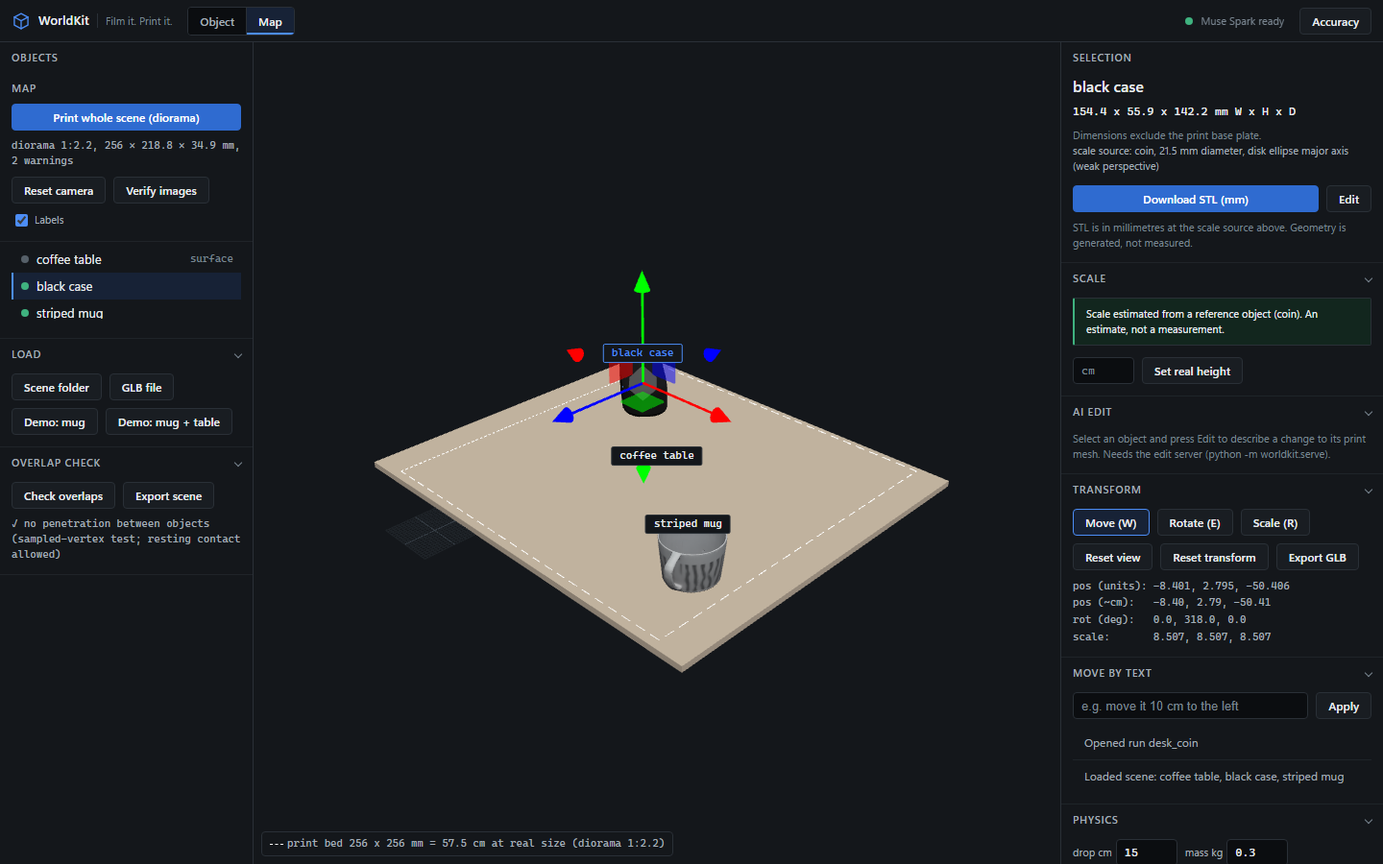
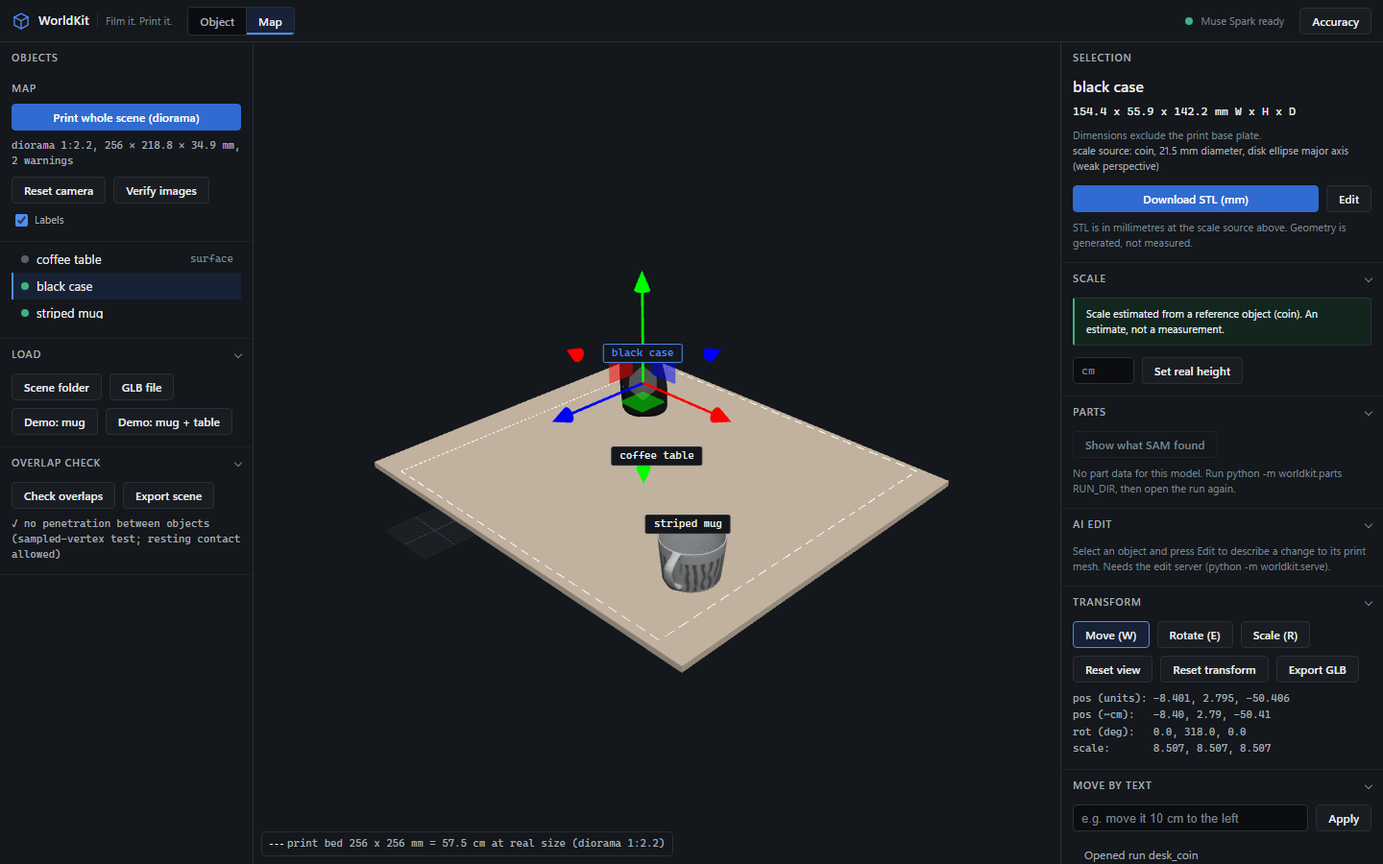
Viewer: show what SAM found overlay, Parts section, part-edit sentences in the AI Edit log
Accent-coloured overlay faces for the part, legend with the view count, per-part view bar, all from tokens. A part edit is
one plain sentence plus version and verdict, never tool-call JSON; the overlay is dropped when an edited mesh replaces the
original. New browser suite parts_browser_test.js (10 checks) and a real-mug screenshot in docs/ui/.

Changed region(s): [[0.75, 0.4667, 1.0, 0.9956], [0.9375, 0.9333, 1.0, 0.9644]]

diff --git a/viewer/index.html b/viewer/index.html
@@ -99,6 +99,15 @@
         </div>
       </details>
 
+      <details class="sec" open id="sec-parts">
+        <summary>Parts</summary>
+        <div class="sec-b">
+          <div class="row"><button id="btn-parts" type="button" aria-pressed="false" disabled>Show what SAM found</button></div>
+          <div id="part-list"></div>
+          <div id="parts-empty" class="hint">No part data for this model. Run python -m worldkit.parts RUN_DIR, then open the run again.</div>
+        </div>
+      </details>
+
       <details class="sec" open>
         <summary>AI Edit</summary>
         <div class="sec-b">
@@ -185,6 +194,7 @@
     <div id="wk-labels"></div>
     <div id="vp-tools"></div>
     <div id="vp-legend"><i></i><span id="vp-legend-text"></span></div>
+    <div id="vp-part-legend" role="status"><i></i><span id="vp-part-legend-text"></span></div>
     <div id="loading" role="status"><div class="bar"></div><span id="loading-text">Loading</span></div>
     <div id="verify-panel">
       <div class="head"><b>Verification against the real frames</b><span id="verify-sum"></span><button id="btn-verify-close">Close</button></div>
@@ -1210,7 +1220,7 @@ async function startup() {
   try {
     const cfg = await (await fetch("/api/autoload")).json();
     if (cfg.kind === "scene") { await loadSceneFromUrl(cfg.base); logEntry(`Opened run ${cfg.name}`); return; }
-    if (cfg.kind === "object") { window.__runStl = cfg.stl || null; await loadObjectFromUrls(cfg.glb, cfg.report, "model.glb"); logEntry(`Opened run ${cfg.name}`); return; }
+    if (cfg.kind === "object") { window.__runStl = cfg.stl || null; await loadObjectFromUrls(cfg.glb, cfg.report, "model.glb"); logEntry(`Opened run ${cfg.name}`); loadParts(); return; }
     if (cfg.error) logEntry(cfg.error, true);
   } catch (e) { logEntry(`Could not open the requested run: ${e}`, true); }
   loadGLBFromURL("assets/sample_mug.glb", "sample_mug.glb");
@@ -1255,6 +1265,8 @@ async function aiReloadModel() {
   const buf = await r.arrayBuffer();
   if (ai.obj) await replaceObjectGeometry(ai.obj, buf);
   else await loadGLBFromArrayBuffer(buf, `edit v${ai.state.current}`);
+  if (partsState.on) { partsState.on = false; document.getElementById("btn-parts").setAttribute("aria-pressed", "false"); }
+  clearPartOverlay(); // the overlay marks the ORIGINAL mesh
 }
 async function aiSend() {
   const input = document.getElementById("ai-input");
@@ -1272,15 +1284,18 @@ async function aiSend() {
     const tools = (r.tools || []).map((t) => `${t.name}(${JSON.stringify(t.arguments)})${t.error ? " ERROR: " + t.error : ""}`).join("; ");
     const imgUrl = (r.renders && r.renders.length) ? `/edit/render/${r.renders[0]}${ai.obj ? "?obj=" + encodeURIComponent(ai.obj) : ""}` : "";
     const img = imgUrl ? `<img class="thumb" src="${imgUrl}" alt="before and after render">` : "";
+    const sentences = (r.tools || []).map((t) => t.sentence).filter(Boolean);
     const toolNames = (r.tools || []).map((t) => `${esc(t.name)}${t.error ? " ERROR" : ""}`).join(", ") || "no tool";
-    const row = (vtag, verdict, meta) => `<div><span class="vtag">${vtag}</span>${esc(text)}</div><div class="mono">${toolNames}</div><div>${verdict}</div><div class="meta">${meta}</div>${img}`;
+    // a part edit reads as a sentence ("Thickened handle by 2 mm (SAM found 7 of 8 views)"), never as tool-call arguments
+    const what = sentences.length ? `<div>${sentences.map(esc).join(" ")}</div>` : `<div class="mono">${toolNames}</div>`;
+    const row = (vtag, verdict, meta) => `<div><span class="vtag">${vtag}</span>${esc(text)}</div>${what}<div>${verdict}</div><div class="meta">${meta}</div>${img}`;
     if (r.applied) {
       entry.className = "entry ok";
-      entry.innerHTML = row(`v${r.version}`, `applied as v${r.version}${r.retries ? " (after " + r.retries + " retry)" : ""}`, `Spark: ${esc(r.spark || (r.spark_verified === false ? "unavailable - accepted on geometry checks" : "verified"))} | ${esc(tools)} | ${r.seconds}s`);
+      entry.innerHTML = row(`v${r.version}`, `applied as v${r.version}${r.retries ? " (after " + r.retries + " retry)" : ""}`, [`Spark: ${esc(r.spark || (r.spark_verified === false ? "unavailable - accepted on geometry checks" : "verified"))}`, sentences.length ? "" : esc(tools), `${r.seconds}s`].filter(Boolean).join(" | "));
       await aiReloadModel();
     } else {
       entry.className = "entry bad";
-      entry.innerHTML = row(`no change`, `not applied, the model is unchanged: ${esc(r.reason)}`, `${esc(tools)} | ${r.seconds}s`);
+      entry.innerHTML = row(`no change`, `not applied, the model is unchanged: ${esc(r.reason)}`, [sentences.length ? "" : esc(tools), `${r.seconds}s`].filter(Boolean).join(" | "));
     }
     if (imgUrl) { entry.dataset.expandable = "1"; entry.tabIndex = 0; entry.title = "Click for the before/after render"; }
     status.textContent = "";
@@ -1402,7 +1417,7 @@ function setOutline(entry) {
   clearOutline();
   if (sceneObjects.length < 2) return;
   entry.group.traverse((m) => {
-    if (!m.isMesh || m.userData.__outline) return;
+    if (!m.isMesh || m.userData.__outline || m.userData.__partOverlay) return;
     const lines = new THREE.LineSegments(new THREE.EdgesGeometry(m.geometry, 35), new THREE.LineBasicMaterial({ color: css("--vp-select"), depthTest: true, transparent: true, opacity: 0.95 }));
     lines.userData.__outline = true;
     lines.raycast = () => {};
@@ -1641,6 +1656,102 @@ window.__accuracyOpen = openAccuracy;
   const dock = document.getElementById("dock"), tg = document.getElementById("sheet-toggle");
   tg.onclick = () => { const c = dock.classList.toggle("collapsed"); tg.setAttribute("aria-expanded", String(!c)); tg.textContent = c ? "Panels (show)" : "Panels (hide)"; };
 }
+
+
+// --- Parts: "show what SAM found" overlay (accent-coloured faces of the selected part, drawn over the model) ---------------------------
+const partsState = { data: null, on: false, overlays: [] };
+function clearPartOverlay() {
+  for (const o of partsState.overlays) { o.parent && o.parent.remove(o); o.geometry.dispose(); o.material.dispose(); }
+  partsState.overlays = [];
+  document.getElementById("vp-part-legend").style.display = "none";
+}
+function partKeys(part) {
+  const bin = atob(part.glb_keys_b64);
+  const u8 = new Uint8Array(bin.length);
+  for (let i = 0; i < bin.length; i++) u8[i] = bin.charCodeAt(i);
+  const a = new Int32Array(u8.buffer);
+  const keys = new Set();
+  for (let i = 0; i + 2 < a.length; i += 3) keys.add(a[i] + "," + a[i + 1] + "," + a[i + 2]);
+  return keys;
+}
+function buildPartOverlay() {
+  clearPartOverlay();
+  if (!partsState.on || !partsState.data) return 0;
+  let faces = 0;
+  for (const part of partsState.data.parts) {
+    const keys = partKeys(part);
+    modelGroup.traverse((m) => {
+      if (!m.isMesh || m.userData.__partOverlay || m.userData.__outline || !m.geometry.attributes.position) return;
+      const pos = m.geometry.attributes.position, idx = m.geometry.index;
+      const inSet = new Uint8Array(pos.count);
+      for (let i = 0; i < pos.count; i++) inSet[i] = keys.has(Math.round(pos.getX(i) * 1e4) + "," + Math.round(pos.getY(i) * 1e4) + "," + Math.round(pos.getZ(i) * 1e4)) ? 1 : 0;
+      const tri = idx ? idx.count / 3 : pos.count / 3;
+      const out = [];
+      for (let f = 0; f < tri; f++) {
+        const a = idx ? idx.getX(f * 3) : f * 3, b = idx ? idx.getX(f * 3 + 1) : f * 3 + 1, c = idx ? idx.getX(f * 3 + 2) : f * 3 + 2;
+        if (inSet[a] && inSet[b] && inSet[c]) out.push(pos.getX(a), pos.getY(a), pos.getZ(a), pos.getX(b), pos.getY(b), pos.getZ(b), pos.getX(c), pos.getY(c), pos.getZ(c));
+      }
+      if (!out.length) return;
+      const g = new THREE.BufferGeometry();
+      g.setAttribute("position", new THREE.Float32BufferAttribute(out, 3));
+      const mat = new THREE.MeshBasicMaterial({ color: css("--accent"), transparent: true, opacity: 0.6, depthTest: true, polygonOffset: true, polygonOffsetFactor: -2, polygonOffsetUnits: -2, side: THREE.FrontSide });
+      const ov = new THREE.Mesh(g, mat);
+      ov.userData.__partOverlay = true;
+      ov.raycast = () => {};
+      m.add(ov);
+      partsState.overlays.push(ov);
+      faces += out.length / 9;
+    });
+  }
+  const p0 = partsState.data.parts[0];
+  document.getElementById("vp-part-legend-text").textContent = `SAM part: ${p0.name}, found in ${p0.views_found} of ${p0.views_total} views. Edges are approximate.`;
+  document.getElementById("vp-part-legend").style.display = faces ? "block" : "none";
+  return faces;
+}
+function renderPartList() {
+  const box = document.getElementById("part-list");
+  box.textContent = "";
+  const parts = (partsState.data && partsState.data.parts) || [];
+  document.getElementById("parts-empty").style.display = parts.length ? "none" : "block";
+  document.getElementById("btn-parts").disabled = !parts.length;
+  for (const p of parts) {
+    const row = document.createElement("div");
+    row.className = "part-row";
+    const nm = document.createElement("span");
+    nm.className = "pn";
+    nm.textContent = p.name;
+    const ct = document.createElement("span");
+    ct.className = "pc";
+    ct.textContent = `${p.views_found} of ${p.views_total} views`;
+    const bar = document.createElement("span");
+    bar.className = "pbar";
+    bar.setAttribute("aria-hidden", "true");
+    for (let i = 0; i < p.views_total; i++) { const b = document.createElement("i"); if (i < p.views_found) b.className = "on"; bar.appendChild(b); }
+    const note = document.createElement("span");
+    note.className = "pnote";
+    note.textContent = `${p.vertex_count} vertices${p.stl_points_b64 ? ", usable by AI Edit" : ", overlay only (no print-mesh selection)"}`;
+    row.append(nm, ct, bar, note);
+    box.appendChild(row);
+  }
+}
+async function loadParts() {
+  partsState.data = null; partsState.on = false;
+  clearPartOverlay();
+  document.getElementById("btn-parts").setAttribute("aria-pressed", "false");
+  try {
+    const r = await fetch("/open/parts/parts.json");
+    if (r.ok) partsState.data = await r.json();
+  } catch (e) { /* no parts file: the section shows its empty state */ }
+  renderPartList();
+}
+document.getElementById("btn-parts").onclick = () => {
+  partsState.on = !partsState.on;
+  document.getElementById("btn-parts").setAttribute("aria-pressed", String(partsState.on));
+  const n = buildPartOverlay();
+  if (partsState.on && !n) { partsState.on = false; document.getElementById("btn-parts").setAttribute("aria-pressed", "false"); document.getElementById("parts-empty").textContent = "The part could not be matched to the displayed mesh (it was edited or replaced)."; document.getElementById("parts-empty").style.display = "block"; }
+};
+window.__partsUi = () => ({ overlayFaces: partsState.overlays.reduce((n, o) => n + o.geometry.attributes.position.count / 3, 0), on: partsState.on, rows: document.querySelectorAll("#part-list .part-row").length,
+  legend: document.getElementById("vp-part-legend").style.display, legendText: document.getElementById("vp-part-legend-text").textContent, enabled: !document.getElementById("btn-parts").disabled });
 
 // --- Render loop -----------------------------------------------------------
 function onResize() {

diff --git a/viewer/tests/parts_browser_test.js b/viewer/tests/parts_browser_test.js
@@ -1,0 +1,62 @@
+// Real-browser test of the "show what SAM found" overlay and of part edits in the AI Edit log, against worldkit.serve with a scripted
+// Wonder/Spark (serve_fake.py has a 'handle' part, 7 of 8 views): the overlay marks faces, the legend states the view count, a part edit reads as
+// a plain sentence (never tool-call JSON), and the overlay is dropped once the model is replaced by an edited version.
+//   node viewer/tests/parts_browser_test.js        (starts its own server on port 5083; needs pipeline\.venv)
+const { chromium } = require("playwright");
+const { spawn } = require("child_process");
+const path = require("path");
+
+const ROOT = path.resolve(__dirname, "..", "..");
+const PY = path.join(ROOT, "pipeline", ".venv", "Scripts", "python.exe");
+const PORT = 5083;
+const results = [];
+const check = (name, cond, detail) => { results.push({ name, pass: !!cond }); console.log((cond ? "PASS" : "FAIL") + " - " + name + (detail ? " :: " + detail : "")); };
+const sleep = (ms) => new Promise((r) => setTimeout(r, ms));
+
+(async () => {
+  const srv = spawn(PY, [path.join(__dirname, "serve_fake.py"), String(PORT)], { cwd: ROOT, stdio: process.env.DEBUG_SERVERS ? "inherit" : "ignore" });
+  let browser;
+  try {
+    for (let i = 0; i < 80; i++) { try { if ((await fetch(`http://127.0.0.1:${PORT}/api/health`)).ok) break; } catch (e) { /* starting */ } await sleep(500); }
+    browser = await chromium.launch();
+    const page = await browser.newPage({ viewport: { width: 1280, height: 800 } });
+    const errors = [];
+    page.on("pageerror", (e) => errors.push(String(e)));
+    page.on("console", (m) => { if (m.type() === "error") errors.push(m.text()); });
+    await page.goto(`http://127.0.0.1:${PORT}/`, { waitUntil: "domcontentloaded" });
+    await page.waitForFunction(() => window.__sceneReady === true && window.__partsUi && window.__partsUi().enabled, { timeout: 40000 });
+    let ui = await page.evaluate(() => window.__partsUi());
+    check("the Parts section lists the part with its view count", ui.rows === 1 && (await page.locator("#part-list").innerText()).includes("7 of 8 views"));
+    check("the overlay is off until asked", !ui.on && ui.overlayFaces === 0 && ui.legend === "none");
+    await page.click("#btn-parts");
+    await sleep(300);
+    ui = await page.evaluate(() => window.__partsUi());
+    check("Show what SAM found draws overlay faces on the model", ui.on && ui.overlayFaces > 10, `faces=${ui.overlayFaces}`);
+    check("the legend says how many views found the part", ui.legend === "block" && ui.legendText.includes("handle") && ui.legendText.includes("7 of 8 views"), ui.legendText);
+    await page.click("#btn-parts");
+    await sleep(200);
+    check("toggling off removes the overlay", (await page.evaluate(() => window.__partsUi())).overlayFaces === 0);
+    await page.click("#btn-parts");
+    await sleep(200);
+
+    await page.fill("#ai-input", "make the handle 2 mm thicker");
+    await page.click("#ai-send");
+    await page.waitForFunction(() => document.querySelector("#ai-log .entry.ok"), { timeout: 60000 });
+    const row = await page.locator("#ai-log .entry.ok").first().innerText();
+    check("the part edit reads as a plain sentence", row.includes("Thickened handle by 2 mm (SAM found 7 of 8 views)"), row.replace(/\n/g, " | "));
+    check("no raw tool-call JSON in the row", !/[{}]|by_mm|thicken_part|"part"/.test(row), row.replace(/\n/g, " | "));
+    check("the row still shows the version and the verdict", row.includes("v1") && row.includes("applied as v1"));
+    await page.waitForFunction(() => (window.__lastLoadLabel || "") === "edit v1", { timeout: 15000 });
+    ui = await page.evaluate(() => window.__partsUi());
+    check("the overlay is dropped when the edited mesh replaces the original", !ui.on && ui.overlayFaces === 0 && ui.legend === "none");
+    check("no page or console errors", errors.length === 0, errors.slice(0, 3).join(" | "));
+  } catch (e) {
+    check("test ran to the end", false, String(e).slice(0, 300));
+  } finally {
+    if (browser) await browser.close();
+    srv.kill();
+  }
+  const failed = results.filter((r) => !r.pass).length;
+  console.log(`\n${results.length - failed}/${results.length} passed`);
+  process.exit(failed ? 1 : 0);
+})();

diff --git a/viewer/assets/app.css b/viewer/assets/app.css
@@ -192,3 +192,16 @@ td.e-na { color: var(--text-muted); }
   #vp-legend { bottom: var(--space-2); }
 }
 @media (max-width: 900px) { #viewport { position: absolute; inset: 0 0 46vh 0; } #dock.collapsed ~ #viewport { bottom: 36px; } }
+
+/* ---------- parts overlay ---------- */
+#btn-parts[aria-pressed="true"] { background: var(--bg-selected); border-color: var(--accent); }
+#part-list { margin-top: var(--space-2); }
+.part-row { display: grid; grid-template-columns: 1fr auto; gap: var(--space-1) var(--space-3); align-items: center; padding: var(--space-2) 0; border-top: var(--border-w) solid var(--border-subtle); font-size: var(--fs-sm); }
+.part-row .pn { font-weight: var(--fw-medium); }
+.part-row .pc { font-family: var(--font-mono); font-variant-numeric: tabular-nums; color: var(--text-secondary); font-size: var(--fs-xs); }
+.part-row .pbar { grid-column: 1 / -1; display: flex; gap: 2px; }
+.part-row .pbar i { flex: 1; height: 6px; border: var(--border-w) solid var(--border-strong); border-radius: var(--radius-1); }
+.part-row .pbar i.on { background: var(--accent); border-color: var(--accent); }
+.part-row .pnote { grid-column: 1 / -1; font-size: var(--fs-xs); color: var(--text-muted); }
+#vp-part-legend { position: absolute; right: var(--space-2); bottom: var(--space-2); display: none; z-index: 5; max-width: 60%; font-size: var(--fs-xs); font-family: var(--font-mono); color: var(--text-secondary); background: var(--bg-surface); border: var(--border-w) solid var(--border-default); border-radius: var(--radius-2); padding: var(--space-1) var(--space-2); }
+#vp-part-legend i { display: inline-block; width: 10px; height: 10px; background: var(--accent); opacity: 0.6; border-radius: var(--radius-1); margin-right: var(--space-2); vertical-align: -1px; }

diff --git a/viewer/tests/ui_screens.js b/viewer/tests/ui_screens.js
@@ -40,6 +40,21 @@ async function waitUp(port, url = "/api/health") { for (let i = 0; i < 80; i++) 
       await ready(); await sleep(900);
       await page.screenshot({ path: path.join(OUT, `1_object_${tag}.png`) });
 
+      // 1b. "show what SAM found" on the real mug (needs RUN_DIR/parts/parts.json from python -m worldkit.parts)
+      if (objRun && fs.existsSync(path.join(objRun, "parts", "parts.json"))) {
+        await page.waitForFunction(() => window.__partsUi && window.__partsUi().enabled, { timeout: 10000 });
+        await page.click("#btn-parts");
+        const box = await page.locator("canvas").boundingBox();  // orbit so the handle faces the camera
+        for (const dx of [250, 400]) {
+          await page.mouse.move(box.x + 36, box.y + 256); await page.mouse.down();
+          await page.mouse.move(box.x + 36 + dx * Math.min(1, box.width / 840), box.y + 256, { steps: 12 }); await page.mouse.up();
+        }
+        await sleep(500);
+        await page.screenshot({ path: path.join(OUT, `5_parts_overlay_${tag}.png`) });
+        await page.click("#btn-parts");
+        await page.click("#btn-reset");
+      }
+
       // 2. scene view (real desk scene through worldkit.serve when available, else the demo scene)
       if (sceneRun) await page.goto("http://127.0.0.1:5093/", { waitUntil: "domcontentloaded" }); else await page.click("#btn-demo-scene");
       await ready(); await sleep(1200);

diff --git a/viewer/tests/serve_fake.py b/viewer/tests/serve_fake.py
@@ -27,7 +27,7 @@ class Wonder:
 
     def create(self, **kw):
         msgs = kw["messages"]
-        text = msgs[1]["content"].lower()
+        text = msgs[1]["content"].lower().split("measured model facts")[0]  # the instruction only (the facts JSON also mentions "handle")
         last_is_tool = msgs[-1]["role"] == "tool"
         calls = None
         if not last_is_tool:
@@ -35,10 +35,34 @@ class Wonder:
                 calls = [call("scale_to", {"height_cm": 12})]
             elif "text" in text:
                 calls = [call("emboss_text", {"text": "WORLDKIT", "face": "base"})]
+            elif "handle" in text:
+                calls = [call("thicken_part", {"part": "handle", "by_mm": 2})]
             elif "reject" in text:
                 calls = [call("scale_to", {"factor": 1.1})]
         msg = NS(content=None if calls else ("Done." if last_is_tool else "No tool can do that."), tool_calls=calls)
         return NS(choices=[NS(message=msg, finish_reason="tool_calls" if calls else "stop")], usage={"prompt_tokens": 1, "completion_tokens": 1, "total_tokens": 2})
+
+
+def write_parts(d, mug):
+    """A 'handle' part for the synthetic mug (7 of 8 views), with the same quantised GLB positions the viewer matches on."""
+    import base64
+
+    import numpy as np
+    from worldkit import edit_tools as et
+
+    info = et.handle_info(mug)
+    ctr = np.asarray(info["bar_center_point_mm"])
+    sel = np.linalg.norm(mug.vertices - ctr, axis=1) < max(info["bar_thickness_along_normal_mm"], 6.0)
+    # the viewer GLB is serve.stl_to_glb(make_mug()) (unscaled mug): same linear map, then keys = round(x * 1e4)
+    m = make_mug()
+    v = np.stack([m.vertices[:, 0], m.vertices[:, 2], -m.vertices[:, 1]], axis=1)
+    v -= (v.min(0) + v.max(0)) / 2
+    v *= 2.0 / float((m.bounds[1] - m.bounds[0]).max())
+    keys = np.round(v[sel].astype(np.float32).astype(np.float64) * 1e4).astype(np.int32)
+    b64 = lambda a: base64.b64encode(np.ascontiguousarray(a).tobytes()).decode()
+    (d / "parts").mkdir(exist_ok=True)
+    (d / "parts" / "parts.json").write_text(json.dumps({"object": "mug", "parts": [{"id": "handle", "name": "handle", "views_total": 8, "views_found": 7, "vertex_count": int(sel.sum()),
+                                                                                    "glb_keys_b64": b64(keys), "stl_points_b64": b64(mug.vertices[sel].astype(np.float32))}]}))
 
 
 def spark(images, prompt):
@@ -53,4 +77,5 @@ if __name__ == "__main__":
     mug.export(d / "model_print.stl")
     (d / "report.json").write_text(json.dumps({"print_prep": {"height_source": "default_fallback", "is_estimate": True}}))
     (d / "model.glb").write_bytes(serve.stl_to_glb(make_mug()))
+    write_parts(d, mug)
     uvicorn.run(serve.create_app(d, client=Wonder(), ask_spark=spark), host="127.0.0.1", port=int(sys.argv[1]), log_level="warning")

diff --git a/CLAUDE.md b/CLAUDE.md
@@ -42,7 +42,7 @@ Working and verified on the mug video: video -> frames -> Muse Spark -> SAM 3.1 
 
 **Coin-grounded scale (`scale_cal.calibrate_grounded`, default whenever a coin is given; `--no-aspect-fit` turns it off):** the coin ellipse fixes the camera elevation (the object's own silhouette pose gave 24 deg vs the coin's 33 deg and biased the scale), then height aspect and taper of the generated mesh are fitted to SAM silhouettes (IoU only, never ground truth) and applied to the GLB. Mug, coin-only, vs ruler (`docs/accuracy.md`, `python scripts/accuracy_table.py`): height 71.3 vs 70 mm (+1.9%), rim 88.1 vs 85 (+3.7%), base 63.8 vs 65 (-1.9%); before: height +10.7%. Silhouette IoU is flat in height (7.05-7.29 cm indistinguishable), so the real uncertainty is about +-2%, and this is one mug only. `pipeline/samples/ground_truth.json` is evaluation data, never an input. The taper stage was added after seeing the base-diameter error (its fit itself uses no ground truth), so the 3-of-3 result is partly tuned by hindsight and needs a second object to confirm. Map mode placement does not use the grounded reshape yet (scene mug showed 7.35 cm).
 
-**Viewer UI (2026-11-02, spec in `docs/design-spec.md`, tokens in `viewer/assets/tokens.css`, styles `viewer/assets/app.css`):** the floating panels became a shell: top bar (wordmark, Object | Map, status, Accuracy), objects list, viewport, inspector; narrow screens get a bottom sheet. Only tokens are used for colour and size (blue accent, mono numbers, no emoji; log prefixes are now "OK:" / "FAILED:"). The canvas now fills its grid cell, not the window (tests use canvas-relative positions). Object view shows mm dimensions, scale source and "Download STL (mm)" (autoload now returns `stl`). Accuracy view renders `viewer/assets/demo/accuracy.md` (copy of `docs/accuracy.md`; refresh it when you regenerate the table). `node viewer/tests/ui_screens.js` writes `docs/ui/*.png` at 1440 and 390 px. Figma was not available; the light theme is untested.
+**Viewer UI (2026-11-02, spec in `docs/design-spec.md`, tokens in `viewer/assets/tokens.css`, styles `viewer/assets/app.css`):** the floating panels became a shell: top bar (wordmark, Object | Map, status, Accuracy), objects list, viewport, inspector; narrow screens get a bottom sheet. Only tokens are used for colour and size (blue accent, mono numbers, no emoji; log prefixes are now "OK:" / "FAILED:"). The canvas now fills its grid cell, not the window (tests use canvas-relative positions). Object view shows mm dimensions, scale source and "Download STL (mm)" (autoload now returns `stl`). Accuracy view renders `viewer/assets/demo/accuracy.md` (copy of `docs/accuracy.md`; refresh it when you regenerate the table). `node viewer/tests/ui_screens.js` writes `docs/ui/*.png` at 1440 and 390 px. Figma was not available; the light theme is untested. **Parts (2026-11-02):** `python -m worldkit.parts RUN_DIR` asks SAM 3.1 for a part (default mug handle) in each fitted frame and votes it onto the mesh vertices (mug run: 11 of 12 views, 272 vertices, GLB-to-STL alignment 0.03 mm); `parts/parts.json` feeds the viewer's "Show what SAM found" overlay and the AI Edit tool `thicken_part` (surface moves out by by_mm/2, fading out 2-4.5 mm from the part; log row is a sentence with the view count). The vote covers the camera-facing surface of the handle, not the whole ring.
 
 Measured facts worth knowing (details in `docs/TECHNICAL_NOTES.md` and `pipeline/runs/fidelity_round1/`):
 - SAM 3D mug geometry is good (watertight, loop handle, level circular rim: planarity 0.9% of radius, 0.26 deg vs base); TRELLIS is lumpier with an uneven rim. All geometry is generated, not measured.

diff --git a/docs/design-spec.md b/docs/design-spec.md
@@ -27,7 +27,7 @@ Top bar (44 px): logo mark (cube outline, SVG, 1.6 px stroke), wordmark "WorldKi
 
 1. **Object view.** Viewport centre. Left: object list with a status marker. Right "Selection": name (16 px), `W x H x D mm` in mono, "Dimensions exclude the print base plate", scale source line, primary button "Download STL (mm)", note that geometry is generated, not measured. "Scale" shows the calibration banner (amber = placeholder, green = estimated from a reference).
 2. **Scene (Map) view.** Left top: "Print whole scene (diorama)" primary button, diorama ratio, size and warning count, Reset camera, Verify images, Labels. List markers: green = printable STL, amber = no STL, grey = support surface, red = missing mesh; "ref" tag on the scale-reference object. The 256 mm bed is drawn as a dashed square on the desk at real size (256 mm divided by the diorama ratio) with a legend. Right: the same Selection panel plus "Edit" (opens AI Edit for that object).
-3. **AI Edit.** Right panel: version chips (v0, v1, ... current outlined, others undo to that version), a compact row per edit (version tag, instruction, tool names, verdict, Spark verdict and time), click a row for the before/after render, status line, instruction field, Undo, "Current version STL (mm)". Empty state explains the edit server is needed. A "show what SAM found" overlay was not built in the previous step, so it is not here.
+3. **AI Edit.** Right panel: version chips (v0, v1, ... current outlined, others undo to that version), a compact row per edit (version tag, instruction, tool names, verdict, Spark verdict and time), click a row for the before/after render, status line, instruction field, Undo, "Current version STL (mm)". Empty state explains the edit server is needed. "Show what SAM found" (Parts section, built after the first pass): a toggle that draws the part's faces in the accent colour at 60% over the model, a legend in the viewport corner ("SAM part: handle, found in 11 of 12 views. Edges are approximate."), and a row per part with a block bar of views found. A part edit appears in the log as one plain sentence ("Thickened handle by 2 mm (SAM found 7 of 8 views)") plus the version and verdict; tool-call JSON is never shown for it. The overlay marks the original mesh, so it is dropped when an edited version is loaded. Screenshot: `docs/ui/5_parts_overlay_1440.png` (real mug).
 4. **Accuracy.** Full-width view from the top bar: tables of real mm, model mm, error % per run with the scale source; the error cell is tinted green (within 3%), amber (3 to 8%), red (over 8%). A note states how ground truth was measured (ruler, mug only, evaluation only) and that the coin diameter is a looked-up preset. Source: `docs/accuracy.md` (copied to `viewer/assets/demo/accuracy.md`).
 
 ## States
